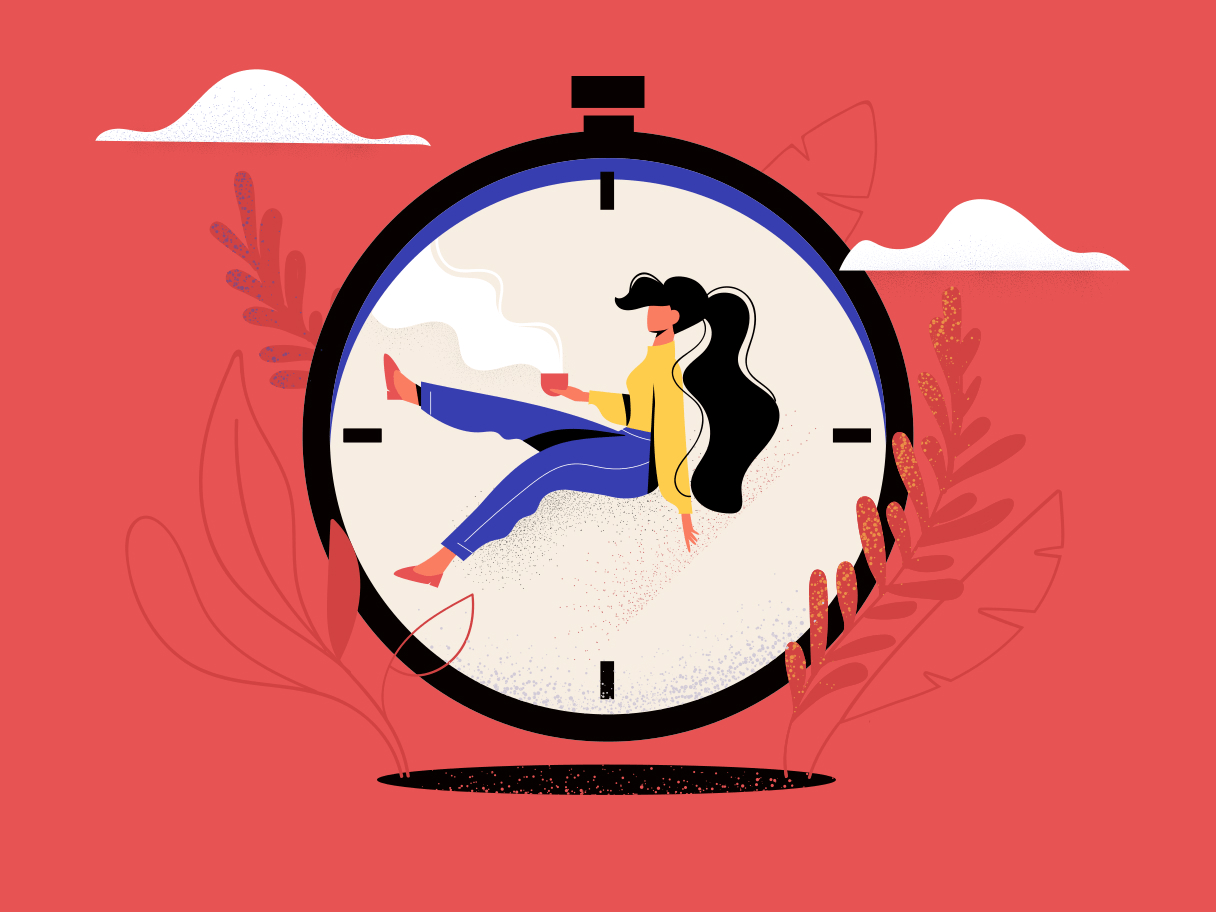
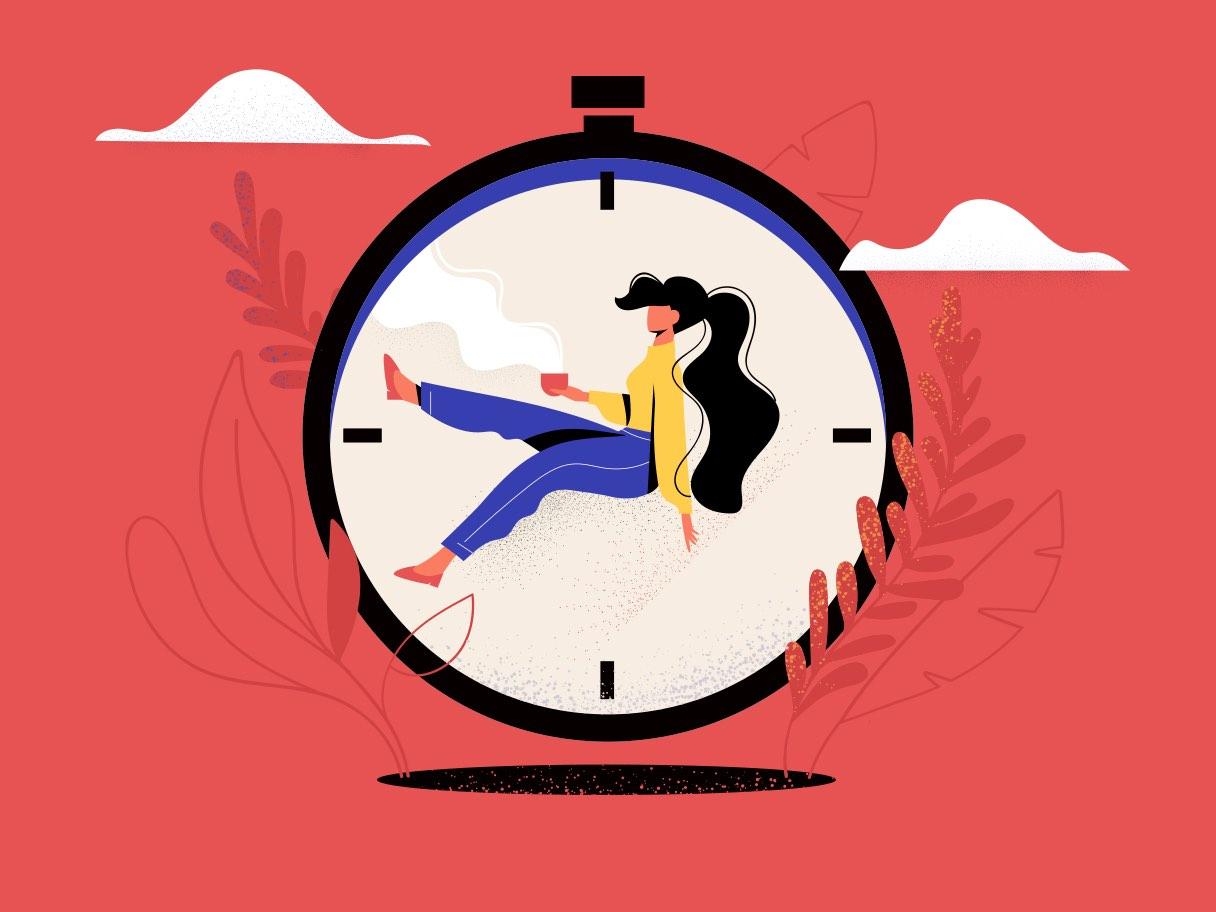
image optimized

diff --git a/src/pages/index.js b/src/pages/index.js
@@ -32,8 +32,8 @@ const IndexPage = () => (
       <p>Learn to focus on delivering value for business and customers. This email course will be your guide to create more valuable design work. Made for those looking to move into Strategic Design roles or those looking to add UX Strategy to their skillset.</p>
     </div>
     <div className="ImageBlock">
-      <img className="Image" src={require('../images/img-square.png')} alt="Mobile shopping concepts" />
-      <img className="Image" src={require('../images/img-portrait.png')} alt="E Commerce Overview screen" />
+      <img className="Image" src={require('../images/img-square.jpg')} alt="Mobile shopping concepts" />
+      <img className="Image" src={require('../images/img-portrait.jpg')} alt="E Commerce Overview screen" />
     </div>
     <div className="ContentGroup">      
       <h3>Digital products</h3>
@@ -46,8 +46,8 @@ const IndexPage = () => (
       <p><em>This course aims to solve these questions. Cut through the Random feature list with something valuable. From oh no! To fuck yeah!</em></p>
     </div>
     <div className="ImageOverlap">
-    <imageoverlap><img className="Image" src={require('../images/img-large.png')} alt="Illustration of a lady sitting on a phone" /></imageoverlap>
-    <imageoverlap><img className="Image" src={require('../images/img-small.png')} alt="Illustration of collaboration" /></imageoverlap>
+    <imageoverlap><img className="Image" src={require('../images/img-large.jpg')} alt="Illustration of a lady sitting on a phone" /></imageoverlap>
+    <imageoverlap><img className="Image" src={require('../images/img-small.jpg')} alt="Illustration of collaboration" /></imageoverlap>
     </div>
     <div className="ContentGroup">      
       <h3>Add value to your design process</h3>
